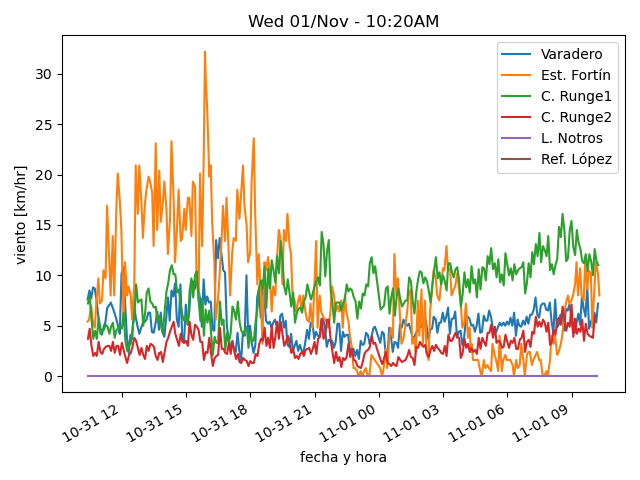
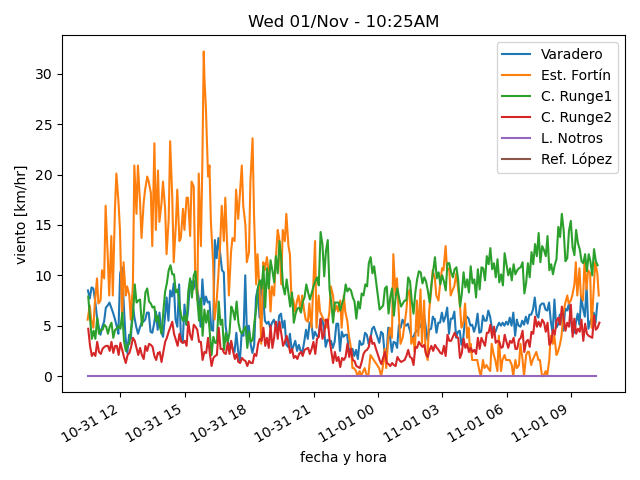
actualiza datos

diff --git a/estaciones/estacion4.html b/estaciones/estacion4.html
@@ -18,7 +18,7 @@
     </tr>
     <tr>
      <td class="stats_data">
-      10:04AM
+      10:19AM
      </td>
     </tr>
     <tr>
@@ -28,12 +28,12 @@
     </tr>
     <tr>
      <td class="stats_data">
-      1.3⁰C
+      1.5⁰C
      </td>
     </tr>
     <tr>
      <td class="stats_data">
-      88.7%
+      89.5%
      </td>
     </tr>
     <tr>
@@ -43,12 +43,12 @@
     </tr>
     <tr>
      <td class="stats_data">
-      4.1/6.0 km/hr SSE
+      3.2/5.3 km/hr SSE
      </td>
     </tr>
     <tr>
      <td class="stats_data">
-      1.7 / 0.0 mm
+      2.01 / 1.8 mm
      </td>
     </tr>
     <tr>
@@ -58,7 +58,7 @@
     </tr>
     <tr>
      <td class="stats_data">
-      175.7 W/m²
+      172.8 W/m²
      </td>
     </tr>
    </tbody>
